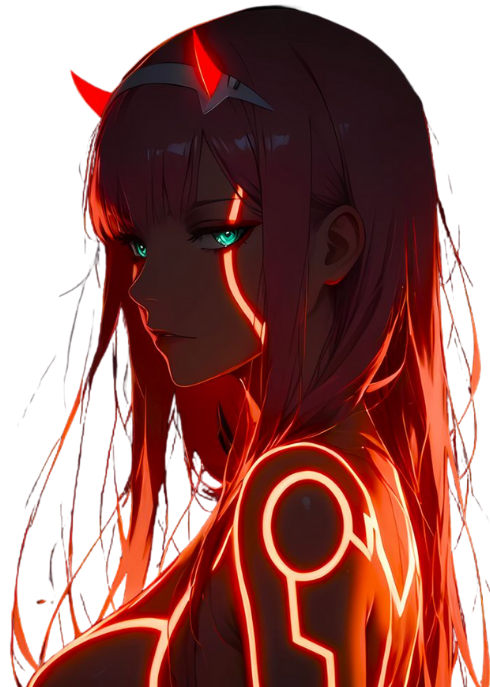
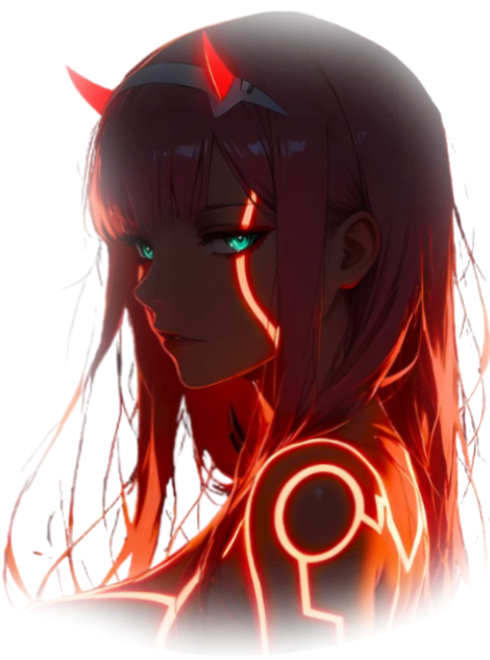
html css and image update

diff --git a/styles.css b/styles.css
@@ -1,7 +1,5 @@
 body {
-    margin: 0;
-    margin-left: 10%;
-    margin-right: 10%;
+    margin: 0 20% 0 20%;
     background-color: rgb(41, 35, 36);
 }
 
@@ -36,6 +34,8 @@ nav ul li {
 
 .accroche {
     padding: 0.8rem;
+    margin-left: 2rem;
+    margin-right: 1rem;
 }
 
 .hero-accroche button {
@@ -56,8 +56,8 @@ nav ul li {
 }
 
 .image-tasse-hero img {
-    width: 15rem;
-    padding: 3rem 12rem 3rem 3rem;
+    width: 16.5rem;
+    padding: 3rem 11rem 3rem 2rem;
 
 }
 

diff --git a/homepage.html b/homepage.html
@@ -27,7 +27,7 @@
         <div class="tasse-hero-container">
         <div class="tasse-hero">
         <div class="image-tasse-hero">
-            <img src="images/zerotwoheropng.png" alt="Zero two de darling in the franxx">
+            <img src="images/zerotwoheropng5.png" alt="Zero two de darling in the franxx">
         </div>
         </div>
         </div>
